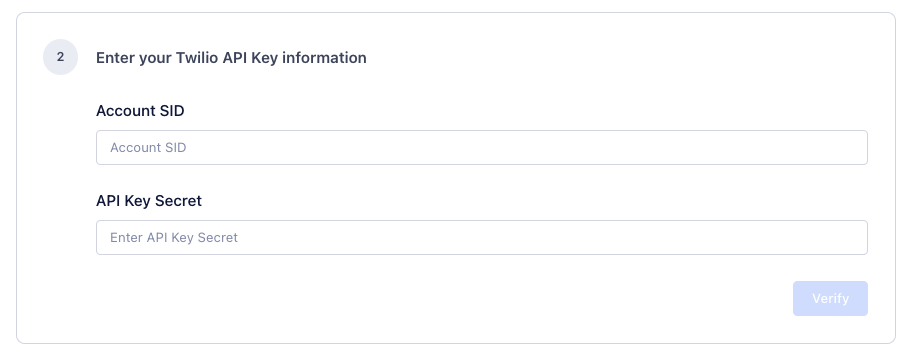
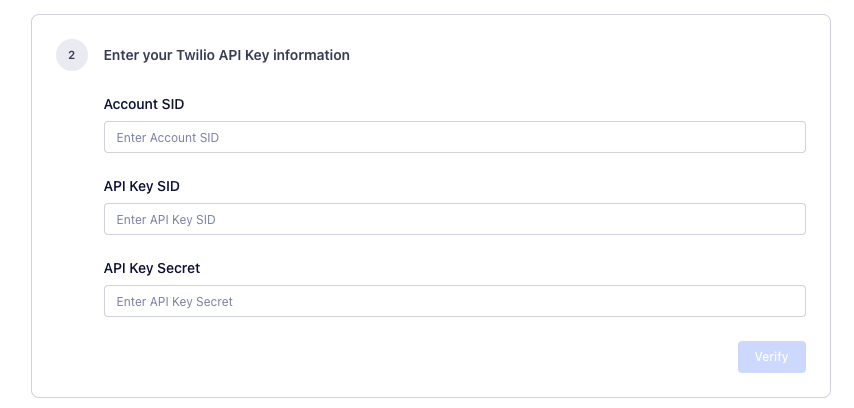
Engage SMS Setup Update

diff --git a/src/engage/overview/onboarding.md b/src/engage/overview/onboarding.md
@@ -192,7 +192,7 @@ Start by creating your Twilio account and getting an API key for Engage:
 11. Under **Enter your Twilio API Key information** (shown below), paste the Account SID, API Key SID, and API Key Secret you copied above into their respective fields.
 12. Click **Verify**, then click **Save Twilio Account.**
 
-<!--    ![Entering Twilio API key into Engage](images/engageapifields.png "Entering Twilio API key into Engage") -->
+  ![Entering Twilio API key into Engage](images/engageapifields.png "Entering Twilio API key into Engage")
 
 > info ""
 > If you’re unable to verify your Account SID, SID, or API Key secret, you may have copied an extra space at the end of one or the other. Verify that you’ve not added any extra characters or spaces, then try to verify again.
